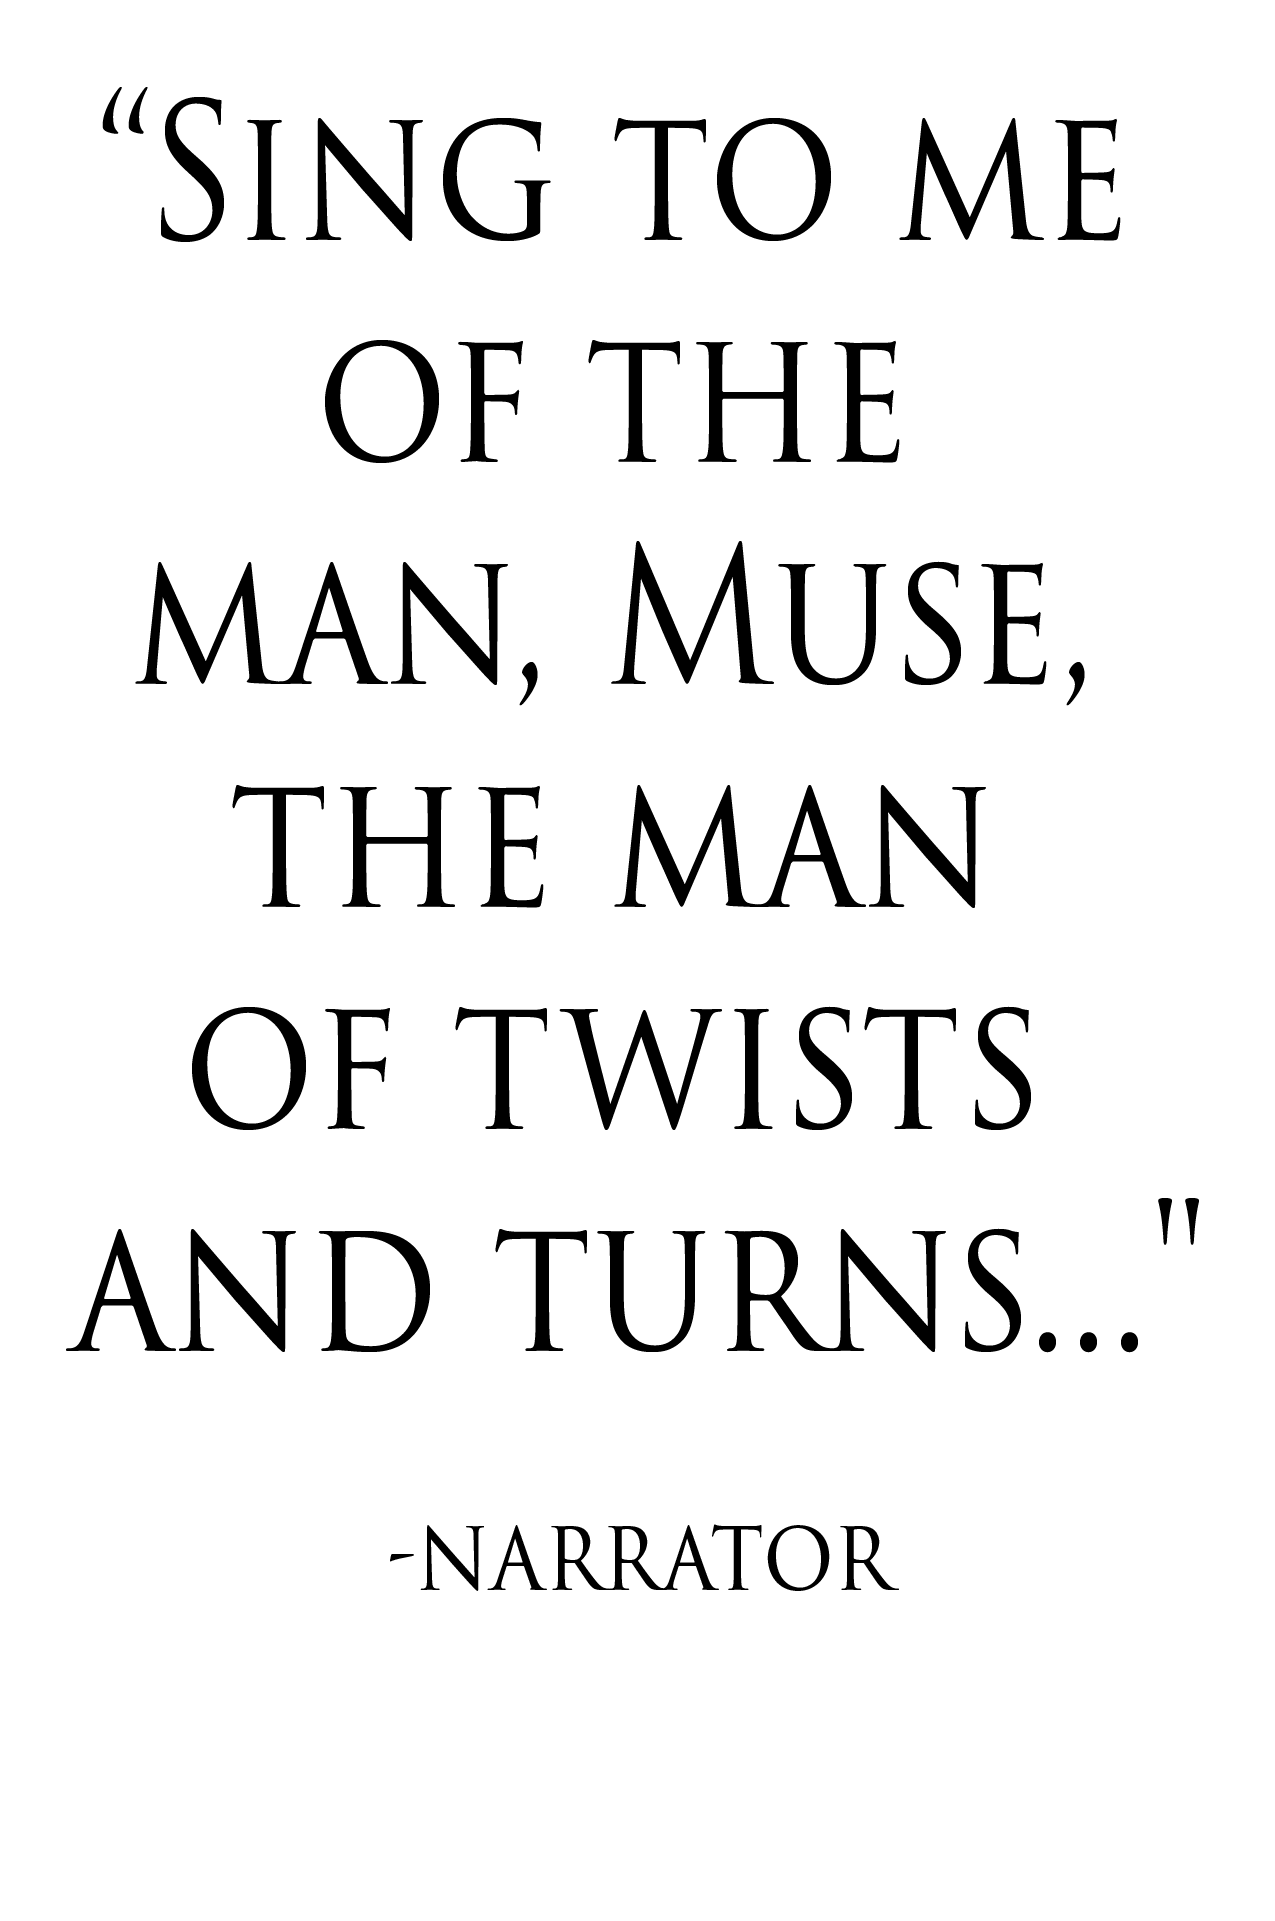
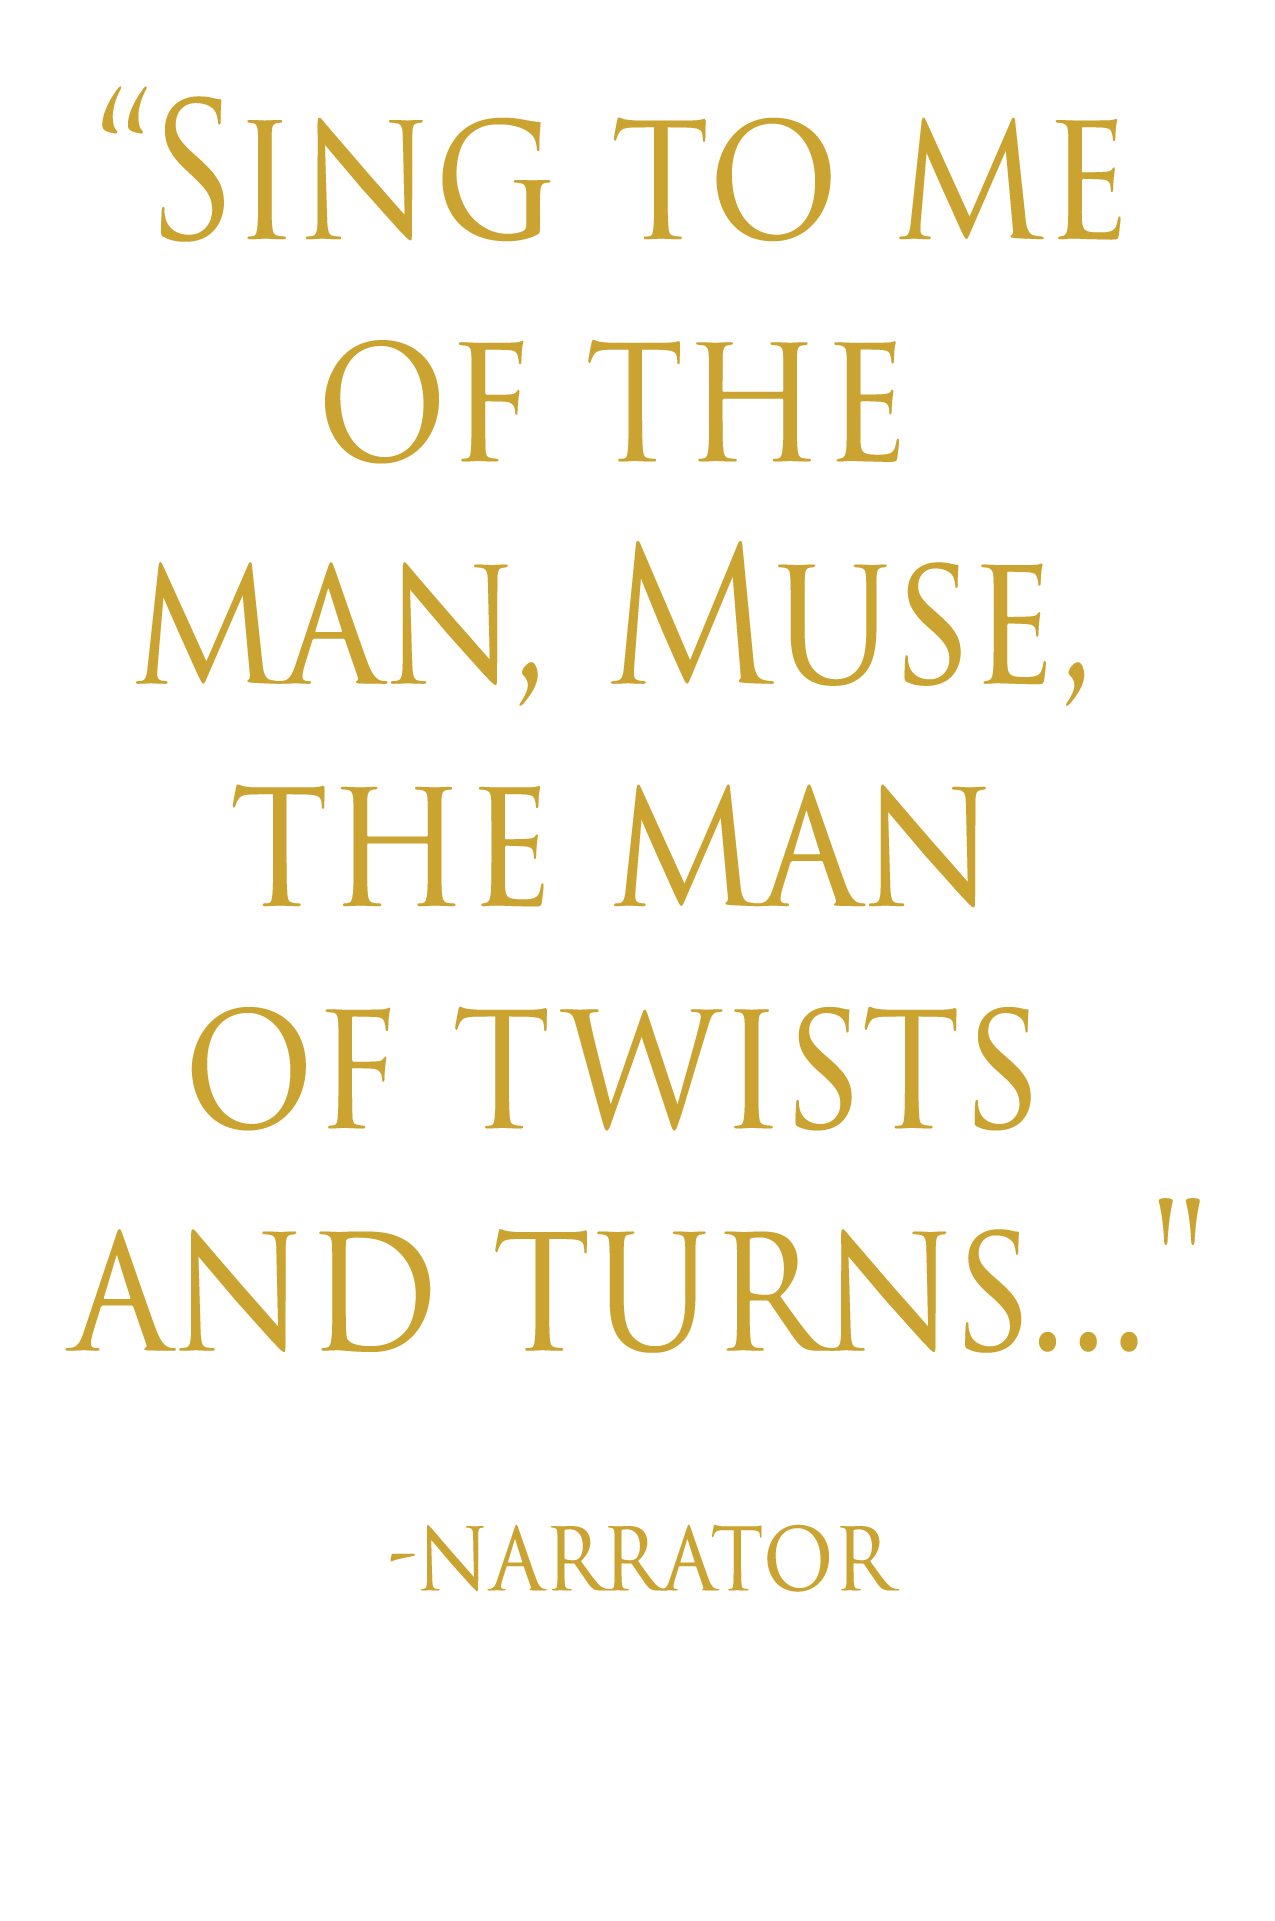
updated quotes

diff --git a/final_project/index.html b/final_project/index.html
@@ -326,6 +326,19 @@
           position="0 0.279 -0.025"
           material="color: #f7f5e6"
         ></a-box>
+
+        <a-image
+      src="#quote-2"
+      width="0.660"
+      height="0.750"
+      position="0.083 0.735 0.089"
+      rotation="0 0 0" 
+      transparent="true"
+      alpha-test="0.1"
+      scale="3.870 3.650 1.000"
+      material="shader: flat"
+      color="#d9a412"
+    ></a-image>
       </a-entity>
 
       <a-entity id="wall-18ft" position="-5.204 1.293 4.097" rotation="0 -90 0">
@@ -410,17 +423,17 @@
           position="0 0.279 -0.025"
           material="color: #f7f5e6"
         ></a-box>
-
         <a-image
-              src="#quote"
-              width="0.660"
-              height="0.750"
-              scale="2.500 2.500 1.300"
-              rotation="0 180 0"
-              position="-0.772 0.472 -0.110"
-              transparent="true"
-              alpha-test="0.5"
-            ></a-image>
+      src="#quote"
+      width="0.660"
+      height="0.750"
+      position="-0.760 0.386 -0.093"
+      rotation="0 180 0" 
+      transparent="true"
+      alpha-test="0.5"
+      scale="1.630 1.810 1.000"
+      color="#f4d88a"
+    ></a-image>
       </a-entity>
 
       <a-entity id="wall-8ft" position="4.264 1.297 8.665" rotation="0 0 0">
